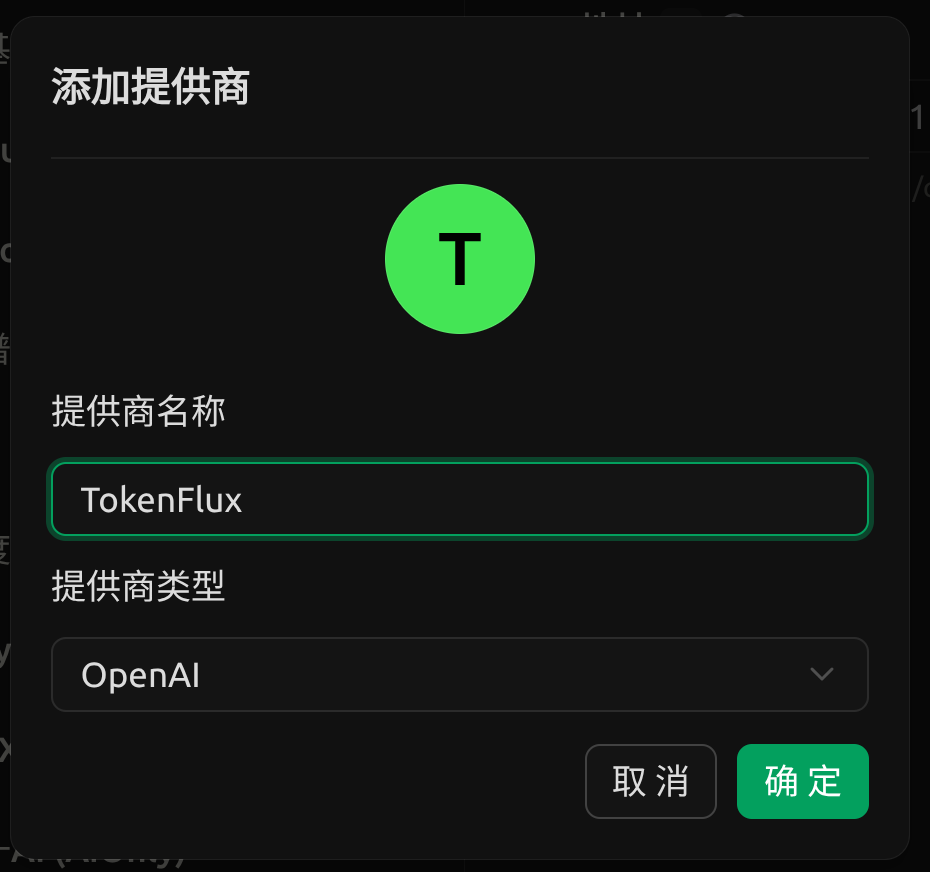
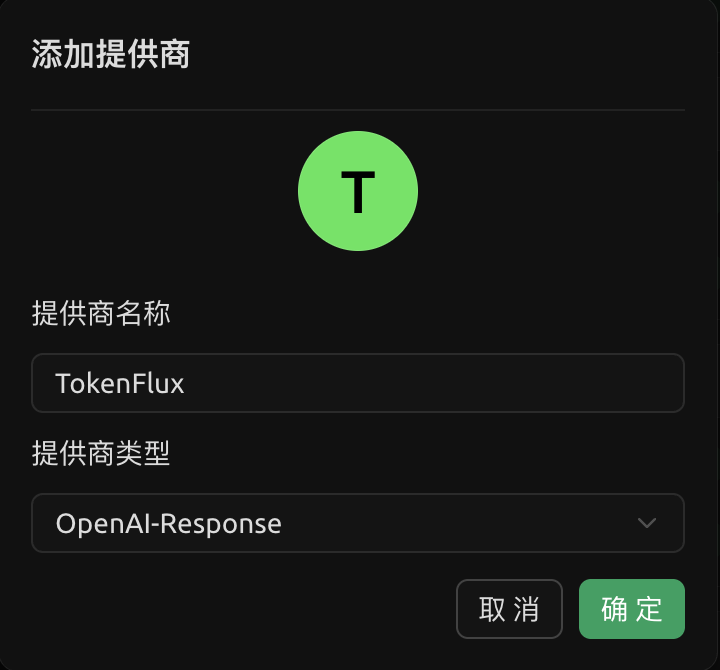
Fix Cherry Studio provider setup docs

diff --git a/tests/docs-links.spec.js b/tests/docs-links.spec.js
@@ -60,7 +60,9 @@ describe('docs cross-links', () => {
     expect(content).toContain('# Cherry Studio 使用指南')
     expect(content).toContain('<DocsTabs default-tab="windows">')
     expect(content).toContain('/docs/tokenflux/create-apikey')
-    expect(content).toContain('API 地址 `https://tokenflux.dev`')
+    expect(content).toContain('OpenAI-Response')
+    expect(content).toContain('openai-response')
+    expect(content).toContain('API 地址 `https://tokenflux.dev/v1`')
     expect(content).toContain('gpt-5.4-mini')
     expect(content).toContain('/images/cherry-studio/provider-type-selection.png')
     expect(content).toContain('/images/cherry-studio/provider-config-fields.png')